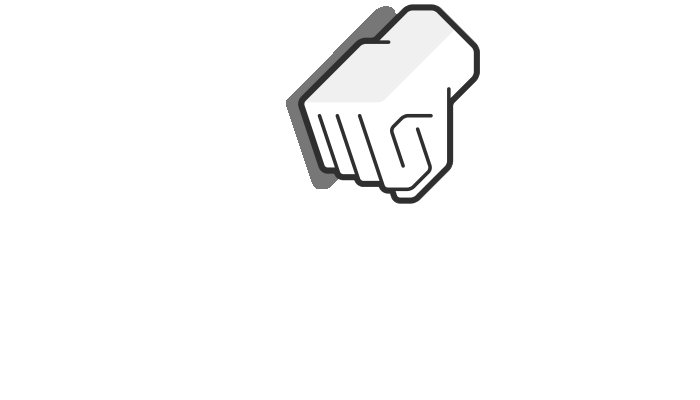
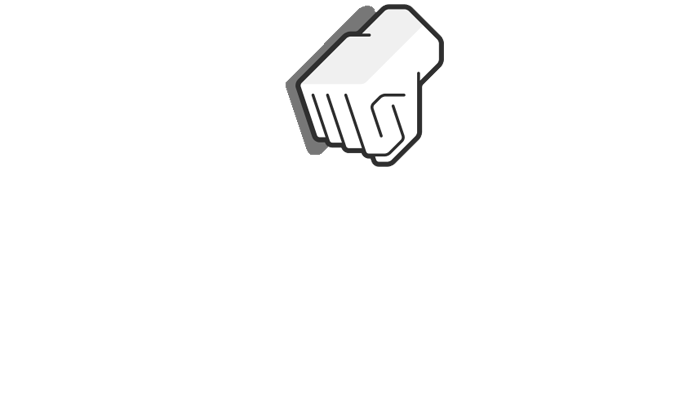
fixed issue with splitting bet

Changed region(s): [[0.39, 0.0, 0.69, 0.51]]

diff --git a/assets/javascript/logic1.js b/assets/javascript/logic1.js
@@ -62,10 +62,15 @@ var rps = {
 		this.pot /= 2;
 		this.getPot();
 		this.potTo0(this.potText);
+
+		this.cHAImg.style.display = "none";
+		this.cHBImg.style.display = "none";
+		this.pHAImg.style.display = "none";
+		this.pHBImg.style.display = "none";
 	},
 
 	split: function(){
-		if (this.chips - (this.betNum * 2) >= 0){
+		if (this.chips - (this.betNum) >= 0){
 			this.chips -= this.betNum;
 			this.betNum *= 2;
 			this.bet();
@@ -224,7 +229,6 @@ var rps = {
 	},
 
 	roundEnd: function (x){
-		console.log("Is this a splitBattle: " + this.splitBattle);
 		if (!this.splitBattle){
 			this.pImg.style.display = "inline";
 			this.compImg.style.display = "inline";
@@ -278,6 +282,9 @@ var rps = {
 		//Bet Number either resets to 0 or stays consistent
 		this.betText.textContent = this.betNum;
 		this.chipUpdate();
+		this.pHandA = "";
+		this.pHandB = "";
+
 	},
 
 
@@ -306,6 +313,10 @@ var rps = {
 		this.pHAImg.style.display = "inline";
 		this.buttonDisabled(this.pHandABut, 3, true);
 
+		if (this.pHandA != "" && this.pHandB != ""){
+			this.roundStart();
+		}
+
 	},
 
 	buttonAP: function(){
@@ -313,6 +324,10 @@ var rps = {
 		this.pHAImg.style.display = "block";
 		this.buttonDisabled(this.pHandABut, 3, true);
 		this.pHandA = "p";
+
+		if (this.pHandA != "" && this.pHandB != ""){
+			this.roundStart();
+		}
 	},
 
 	buttonAS: function(){
@@ -320,6 +335,10 @@ var rps = {
 		this.pHAImg.style.display = "block";
 		this.buttonDisabled(this.pHandABut, 3, true);
 		this.pHandA = "s";
+
+		if (this.pHandA != "" && this.pHandB != ""){
+			this.roundStart();
+		}
 	},
 
 	buttonBR: function(){
@@ -327,7 +346,11 @@ var rps = {
 		this.pHBImg.style.display = "inline";
 		this.buttonDisabled(this.pHandBBut, 3, true);
 		this.pHandB = "r";
-		this.roundStart();
+
+		if (this.pHandA != "" && this.pHandB != ""){
+			this.roundStart();
+		}
+
 
 	},
 
@@ -336,6 +359,10 @@ var rps = {
 		this.pHBImg.style.display = "block";
 		this.buttonDisabled(this.pHandBBut, 3, true);
 		this.pHandB = "p";
+
+		if (this.pHandA != "" && this.pHandB != ""){
+			this.roundStart();
+		}
 	},
 
 	buttonBS: function(){
@@ -343,6 +370,10 @@ var rps = {
 		this.pHBImg.style.display = "block";
 		this.buttonDisabled(this.pHandBBut, 3, true);
 		this.pHandB = "s";
+
+		if (this.pHandA != "" && this.pHandB != ""){
+			this.roundStart();
+		}
 	},
 
 	//should remove your chips as you bet

diff --git a/assets/css/style.css b/assets/css/style.css
@@ -3,12 +3,13 @@ body {
 }
 
 .spacing {
-	background-color: white;
 	text-align: center;
 }
 
 .center {
 	margin-top: 50px;
+	background-color: white;
+	border: 1px solid wheat;
 }
 
 h1, p {
@@ -44,7 +45,9 @@ h1 {
 }
 
 button {
-	width: 100%;
+	width: 50px;
+	height: 50px;
+	font-size: 10px;
 }
 
 button:disabled {

diff --git a/index.html b/index.html
@@ -124,6 +124,8 @@
 			</div>	
 		</div>
 
+		<br>
+
 
 	</div>
 
